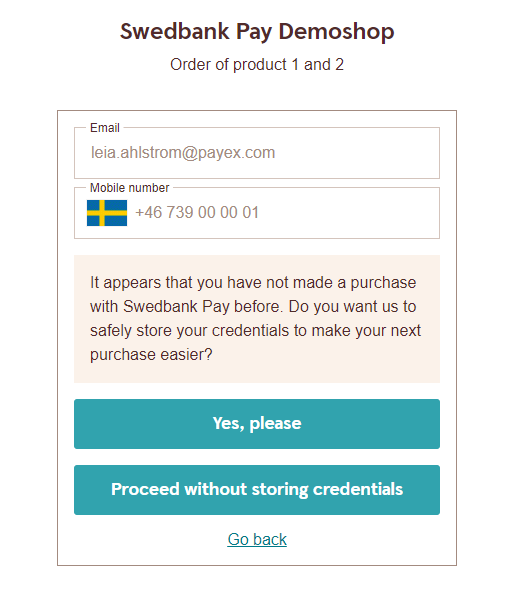
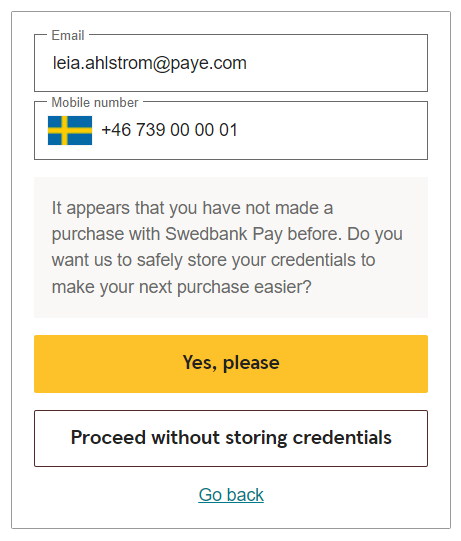
DX-1935: New screenshots added for all v3 sections.

Changed region(s): [[0.0607, 0.1774, 0.9414, 0.976], [0.0911, 0.0296, 0.7592, 0.1479], [0.9111, 0.2662, 0.9414, 0.2957]]

diff --git a/checkout-v3/starter/seamless-view.md b/checkout-v3/starter/seamless-view.md
@@ -229,16 +229,16 @@ the top right corner.
 
 You can now perform the `GET` on the payment order and display the available
 delivery option(s) to the payer. How the delivery options are displayed is up to
-you. This is how they appear in our demoshop.
+you, so they are not included in this screenshot.
 
 {:.text-center}
-![screenshot of the seamless view checkin mixed and delivery options][checkin-delivery-options-mixed]
+![screenshot of the seamless view checkin mixed and delivery options][checkin-remember-me-mixed]
 
 For digital products, only contact details will be shown. "Remember me" will
 work the same way as with mixed goods.
 
 {:.text-center}
-![screenshot of the seamless view checkin digital and delivery options][checkin-delivery-options-digital]
+![screenshot of the seamless view checkin digital and delivery options][checkin-remember-me-digital]
 
 When the payer chooses a delivery option, you can `PATCH` the payment order and
 open the payment menu. The payer can then proceed with the purchase.
@@ -272,8 +272,8 @@ Events][seamless-view-events] available in the feature section.
                          next_title="Post Purchase" %}
 
 [abort-feature]: /checkout-v3/starter/features/core/abort
-[checkin-delivery-options-digital]:/assets/img/checkout/checkin-delivery-options-remember-me-digital.png
-[checkin-delivery-options-mixed]:/assets/img/checkout/checkin-delivery-options-remember-me-mixed.png
+[checkin-delivery-options-digital]:/assets/img/checkout/checkin-remember-me-digital.png
+[checkin-delivery-options-mixed]:/assets/img/checkout/checkin-remember-me-mixed.png
 [login-checkin]: /assets/img/checkout/checkin.png
 [seamless-view-events]: /checkout-v3/starter/features/technical-reference/seamless-view-events
 [seamless-payment-menu-starter]: /assets/img/checkout/checkout-v3-seamless-menu.png

diff --git a/checkout-v3/payments-only/seamless-view.md b/checkout-v3/payments-only/seamless-view.md
@@ -146,7 +146,7 @@ The payment menu should appear with the payer information displayed above the
 menu. The payer can select their preferred payment instrument and pay.
 
 {:.text-center}
-![screenshot of the enterprise implementation seamless view payment menu][seamless-enterprise-menu]
+![screenshot of the enterprise implementation seamless view payment menu][payments-only-seamless-menu]
 
 Once the payer has completed the purchase, you can perform a GET towards the
 `paymentOrders` resource to see the purchase state.
@@ -172,4 +172,4 @@ capture and the other options you have after the purchase.
 [abort-feature]: /checkout-v3/payments-only/features/core/abort
 [seamless-view-events]: /checkout-v3/payments-only/features/technical-reference/seamless-view-events
 [sequence-diagram]: /checkout-v3/sequence-diagrams#payments-only-seamless-view
-[seamless-enterprise-menu]: /assets/img/checkout/checkout-v3-seamless-menu.png
+[payments-only-seamless-menu]: /assets/img/checkout/checkout-v3-seamless-menu.png
